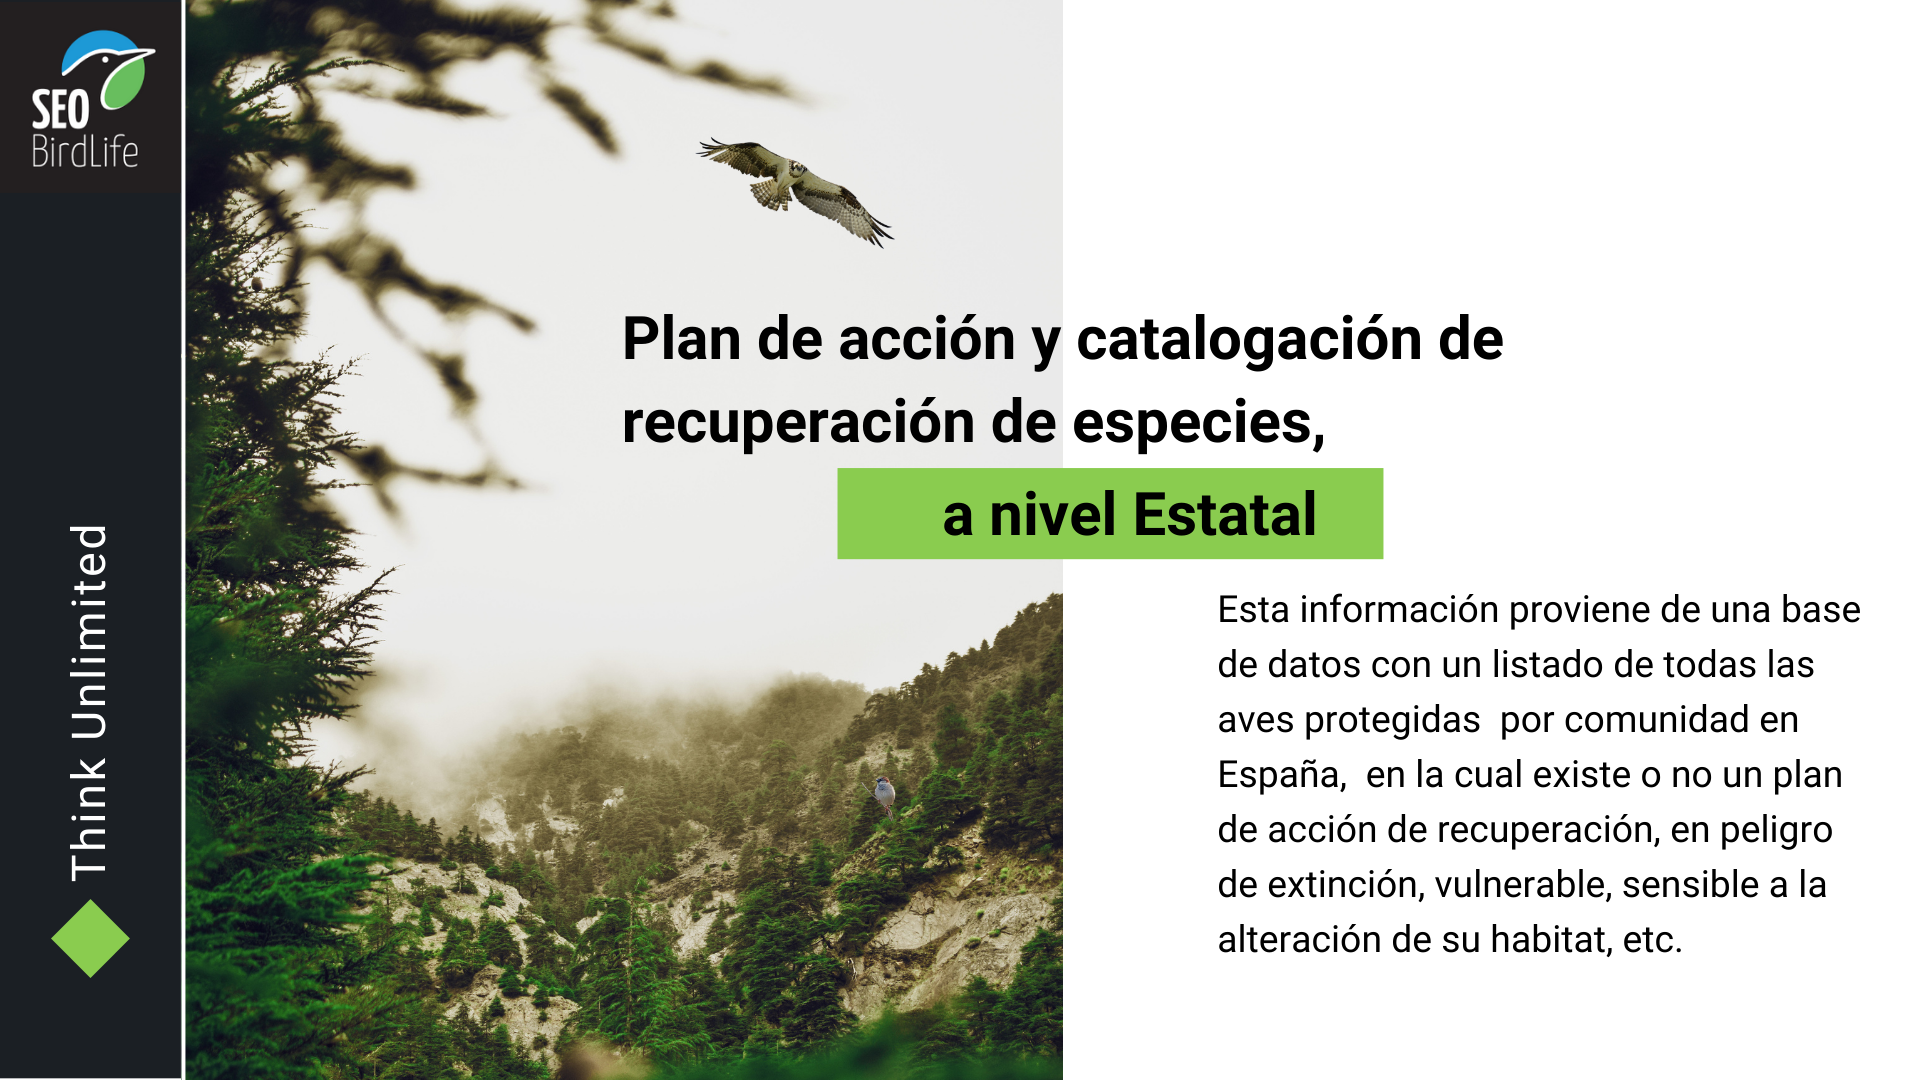
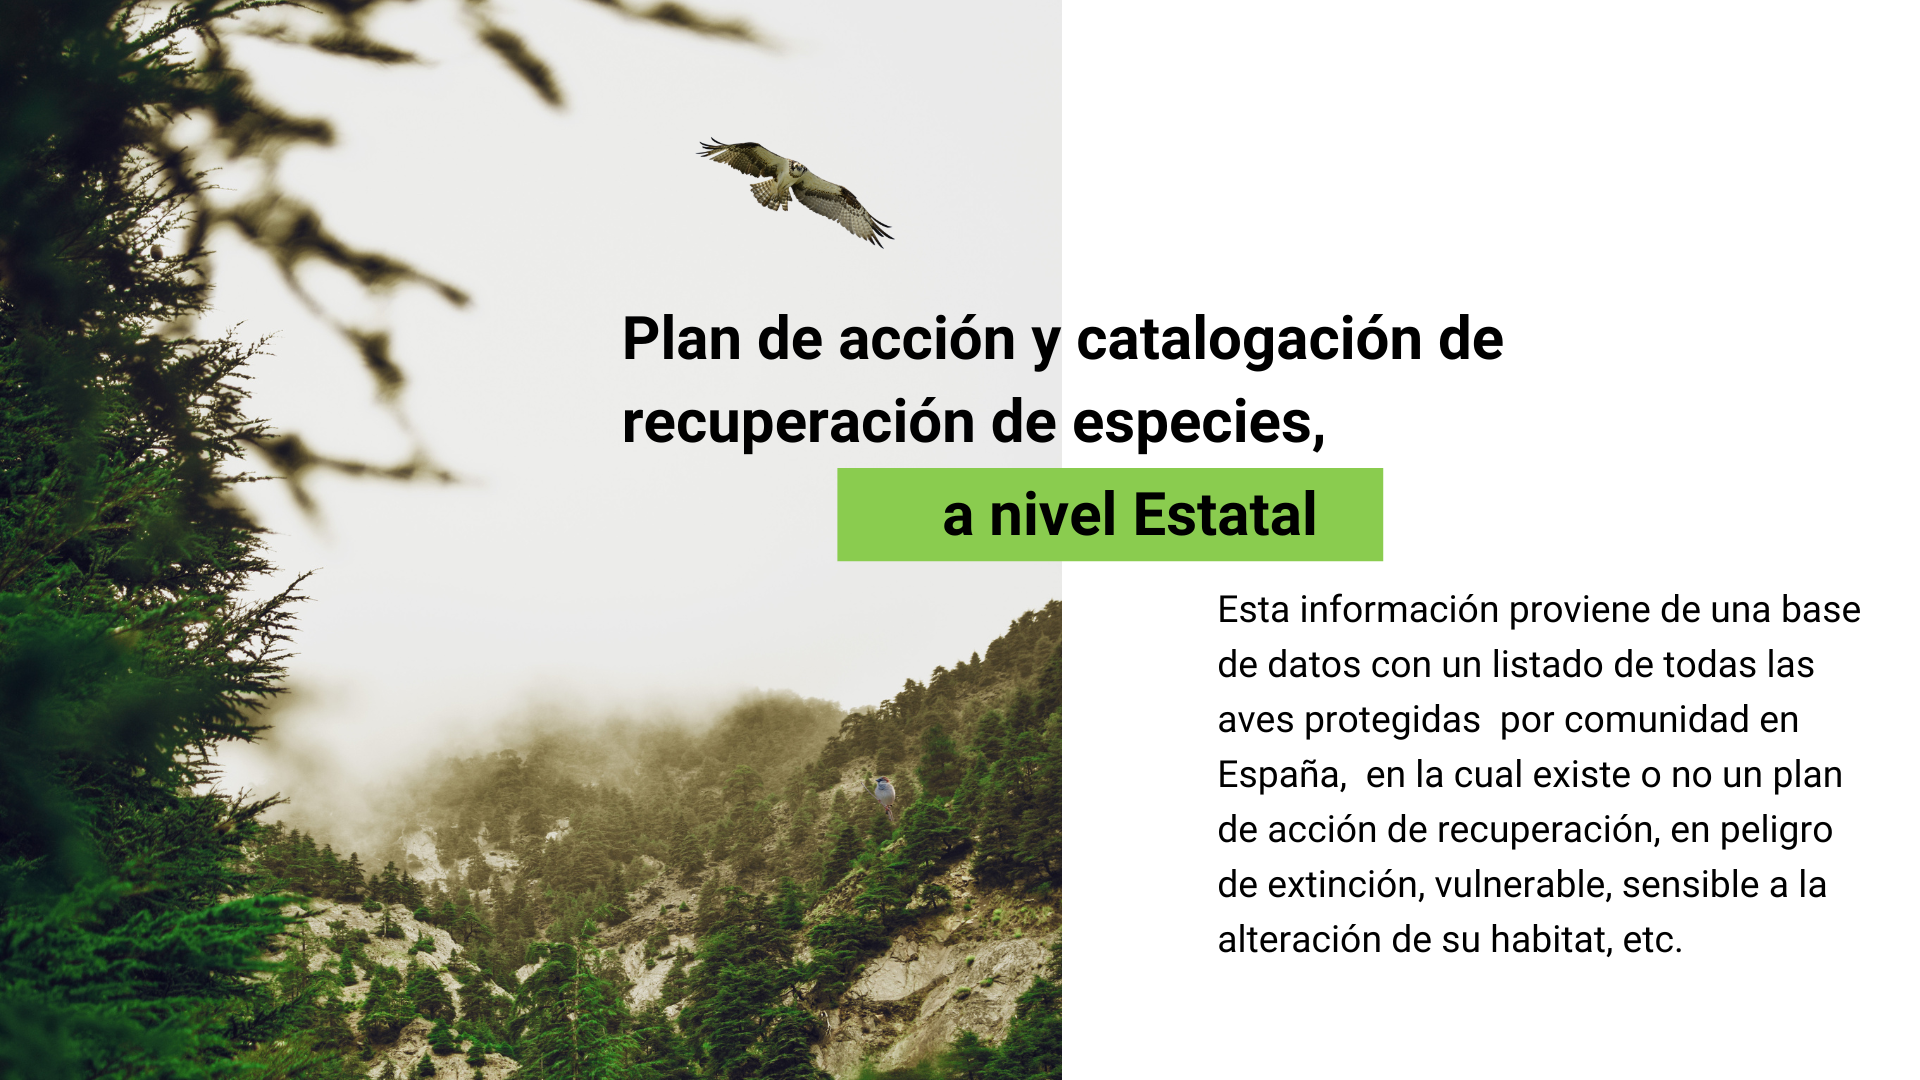
se actualiza portada se le quita la parte de sidebar que tenia la foto

Changed region(s): [[0.0, 0.0, 0.5625, 1.0]]

diff --git a/app/index.py b/app/index.py
@@ -31,4 +31,4 @@ def display_page(pathname):
         return '404 No Encontrado' # Si la URL intruducida no es válida, devuelve un 404 No Encontrado
     
 if __name__ == "__main__":
-    app.run_server(host='0.0.0.0',debug=True, port=8050) # Corre el Servidor.
+    app.run_server(debug=True, port=8050) # Corre el Servidor.
